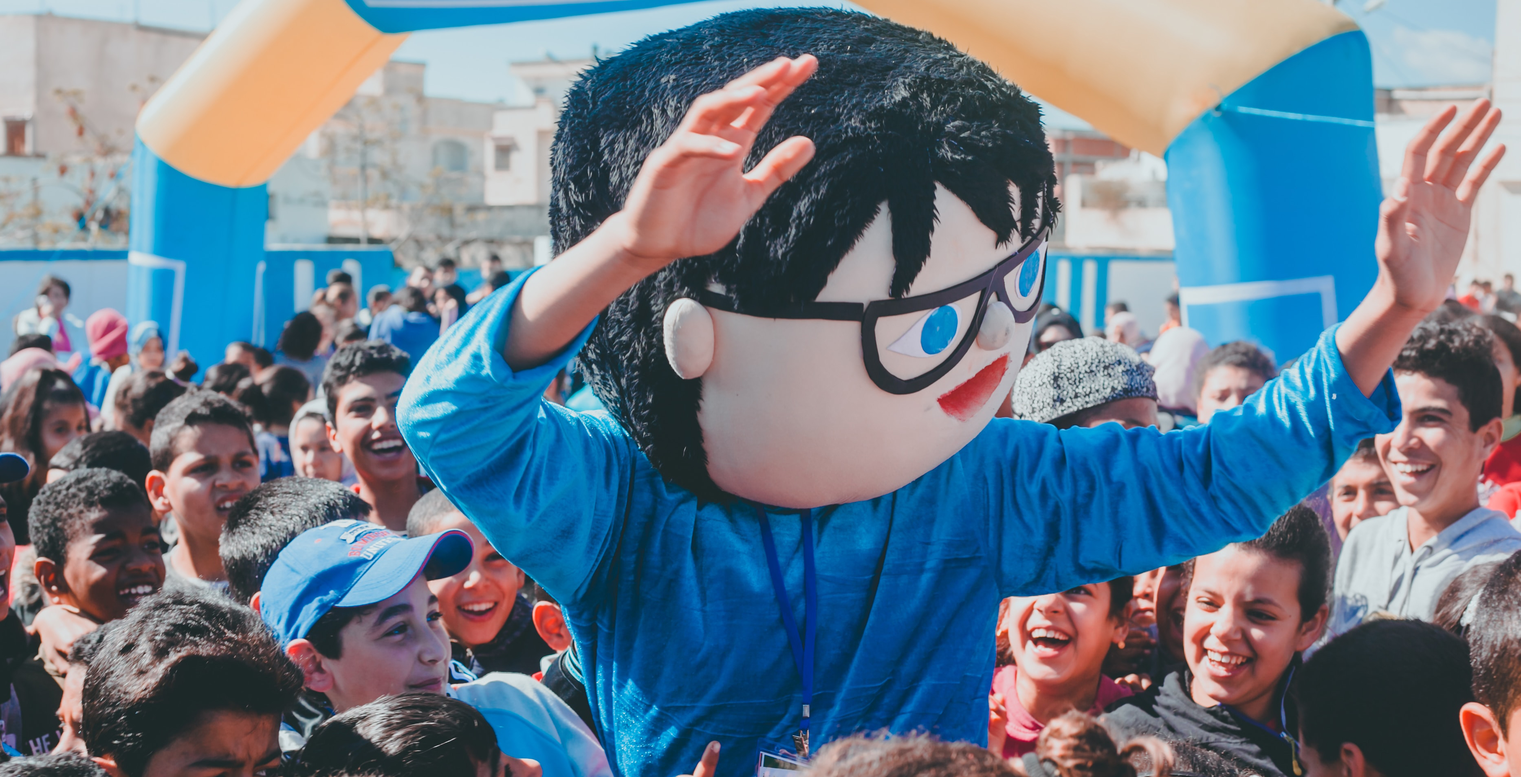
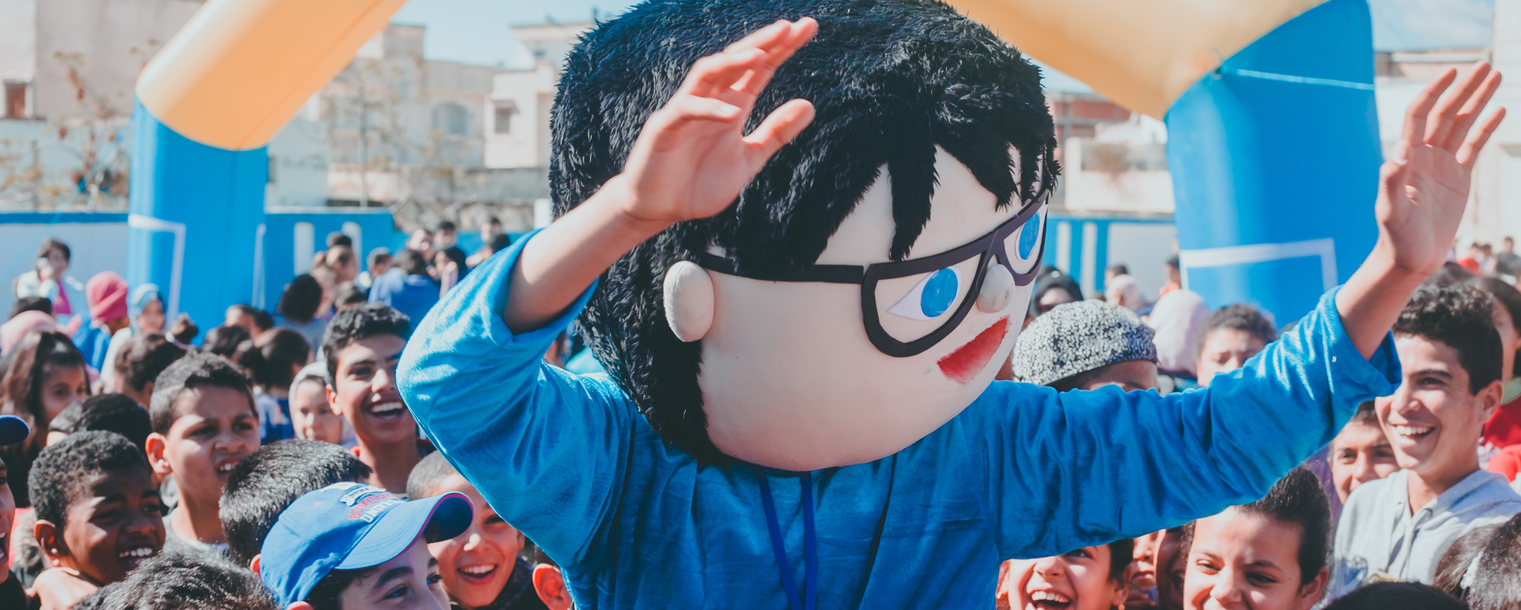
fixed errors

diff --git a/index.html b/index.html
@@ -231,6 +231,45 @@ We specialize in making your event a success. Whether you need a well known cele
 					  </p>
 			  </div>
 	</div>
+	
+	<h3>OUR SERVICES</h3>		  
+	<div class="row our-services">
+		 
+		<div class="col-xs-12 col-md-6">
+			<div class="our-service-item">
+				<a href="services-animals.html"><img class="our-service-photo" src="images/our-service-animal.jpg"></a>
+				<h4>Animals</h4>
+				<p>It is a long established fact that a reader will be distracted by the readable content of a page when looking at its layout. The point of using Lorem Ipsum is that it has a more-or-less normal distribution of letters, as opposed to using 'Content here, content here', making it look like readable English</p>
+			</div>
+		</div>
+		
+		<div class="col-xs-12 col-md-6">
+			<div class="our-service-item">
+				<a href="services-holidays.html"><img class="our-service-photo" src="images/our-service-holiday.jpg"></a>
+				<h4>Holidays</h4>
+				<p>It is a long established fact that a reader will be distracted by the readable content of a page when looking at its layout. The point of using Lorem Ipsum is that it has a more-or-less normal distribution of letters, as opposed to using 'Content here, content here', making it look like readable English</p>
+			</div>
+		</div>
+		
+		<div class="col-xs-12 col-md-6">
+			<div class="our-service-item">
+				<a href="services-music.html"><img class="our-service-photo" src="images/our-service-music.jpg"></a>
+				<h4>Music</h4>
+				<p>It is a long established fact that a reader will be distracted by the readable content of a page when looking at its layout. The point of using Lorem Ipsum is that it has a more-or-less normal distribution of letters, as opposed to using 'Content here, content here', making it look like readable English</p>
+			</div>
+		</div>
+		
+			
+		<div class="col-xs-12 col-md-6">
+			<div class="our-service-item">
+				<a href="services-kids.html"><img class="our-service-photo" src="images/our-service-kids.jpg"></a>
+				<h4>Kids</h4>
+				<p>It is a long established fact that a reader will be distracted by the readable content of a page when looking at its layout. The point of using Lorem Ipsum is that it has a more-or-less normal distribution of letters, as opposed to using 'Content here, content here', making it look like readable English</p>
+			</div>
+		</div>
+		
+				
+	</div>
 
 
 
@@ -245,6 +284,12 @@ We specialize in making your event a success. Whether you need a well known cele
 			   <div class="popular-service-item"><a class="popular-service-link" href="#"><img class="popular-service-photo" src="images/popular-services-photo-4.png"><h4>Fire Performers</h4></a></div>
 			   <div class="popular-service-item"><a class="popular-service-link" href="#"><img class="popular-service-photo" src="images/popular-services-photo-5.png"><h4>Magicians</h4></a></div>
 			   <div class="popular-service-item"><a class="popular-service-link" href="#"><img class="popular-service-photo" src="images/popular-services-photo-1.jpg"><h4>DJs</h4></a></div>
+			    <div class="popular-service-item"><a class="popular-service-link" href="#"><img class="popular-service-photo" src="images/popular-services-photo-11.png"><h4>Bands</h4></a></div>
+			   <div class="popular-service-item"><a class="popular-service-link" href="#"><img class="popular-service-photo" src="images/popular-services-photo-12.png"><h4>Baby Tigers</h4></a></div>
+			   <div class="popular-service-item"><a class="popular-service-link" href="#"><img class="popular-service-photo" src="images/popular-services-photo-10.png"><h4>Exotics Petting Zoos</h4></a></div>
+			   <div class="popular-service-item"><a class="popular-service-link" href="#"><img class="popular-service-photo" src="images/popular-services-photo-9.png"><h4>Jugglers</h4></a></div>
+			   <div class="popular-service-item"><a class="popular-service-link" href="#"><img class="popular-service-photo" src="images/popular-services-photo-8.png"><h4>Kangaroo</h4></a></div>
+			   <div class="popular-service-item"><a class="popular-service-link" href="#"><img class="popular-service-photo" src="images/popular-services-photo-7.png"><h4>Stilt Walkers</h4></a></div>
 		  </div>
 	  </div>
    </div>

diff --git a/about.html b/about.html
@@ -172,7 +172,7 @@
     <h1>ABOUT</h1>
 	  <div class="row">
 		  <div class="about-main-photo col-xs-12 col-md-12">
-      <img src="images/staff.jpg">
+      <img class="page-banner" src="images/staff.jpg">
 			 <p> Contrary to popular belief, Lorem Ipsum is not simply random text. It has roots in a piece of classical Latin literature from 45 BC, making it over 2000 years old. Richard McClintock, a Latin professor at Hampden-Sydney College in Virginia, looked up one of the more obscure Latin words, consectetur, from a Lorem Ipsum passage, and going through the cites of the word in classical literature, discovered the undoubtable source.</p>
 		  </div>
 	  </div>

diff --git a/css/styles.css b/css/styles.css
@@ -67,6 +67,8 @@ img {
 
 }
 
+.page-banner {}
+
 
 /*------------- end hero slider info -----------------*/
 
@@ -74,7 +76,7 @@ img {
 
 
 
-
+.our-services {padding:3rem;}
 
 
 /*-------------POPULAR SERVICES SLIDERS -----------------*/
@@ -174,7 +176,7 @@ img {
 
 .home-careers {
 	/*box-shadow: 0 4px 8px 0 rgba(0, 0, 0, 0.2), 0 6px 20px 0 rgba(0, 0, 0, 0.19);*/
-	margin-bottom: 5rem;
+	margin: 2rem 0;
 
 }
 

diff --git a/css/hero-sliders.css b/css/hero-sliders.css
@@ -45,6 +45,7 @@
   -webkit-align-items: flex-start;
   align-content:flex-start;
   -webkit-align-content: flex-start;
+  
 }
 
 .hero-container .hero-slides .hero-slide {
@@ -52,7 +53,8 @@
   -webkit-flex: 1 0 100%;
   position: relative;
   display: none;
-  height: 30rem;
+  height: 20rem;
+  
 }
 
 .hero-container .hero-slides .hero-slide.active {

diff --git a/css/about.css b/css/about.css
@@ -1,8 +1,10 @@
 @charset "utf-8";
 /* CSS Document */
 
+
+
 .about-item-photo {
-		width:300px;
+	  width:300px;
 	  height:300px;
 	  object-fit:cover;
 	  border-radius:50%;

diff --git a/css/career.css b/css/career.css
@@ -83,7 +83,7 @@
 .hero-container .hero-slides .hero-slide {
   
   display: none;
-  height: 35rem;
+  height: 25rem;
   margin-left: auto;
   margin-right: auto;
   

diff --git a/css/footer.css b/css/footer.css
@@ -7,7 +7,7 @@ footer {
   margin-right: auto;
   padding-left: 0rem;
   padding-right: 0rem;
-  margin-top: 5rem;
+  margin-top: 2rem;
 }
 
 
